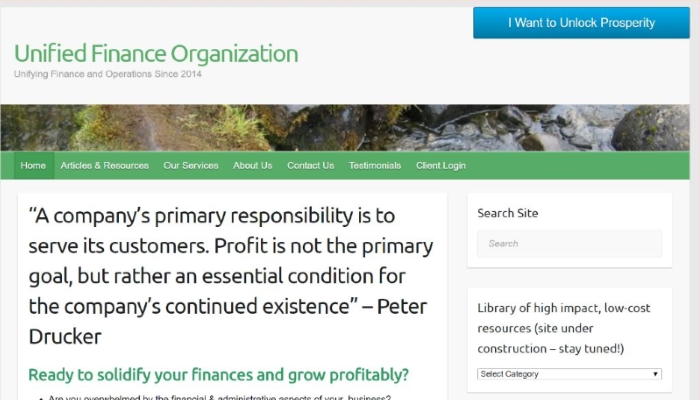
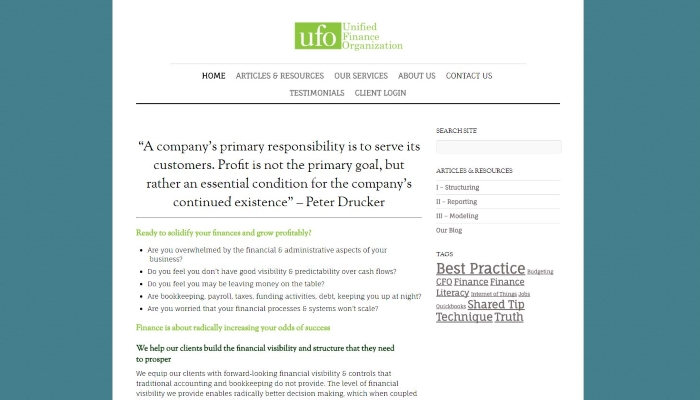
updated name, updated portfolio project

diff --git a/about.html b/about.html
@@ -109,7 +109,7 @@
                 <div class="col-lg-12">
                     <hr>
                     <h2 class="intro-text text-center">Founder's Bio
-                        <strong>Christina McMillan</strong>
+                        <strong>Christina Harder</strong>
                     </h2>
                     <hr>
                 </div>
@@ -122,15 +122,15 @@
                     <p>
                         Happily, my focus shifted in recent years to more programming and less bookkeeping. My passion for solving problems while being creative is a great fit for designing and programming websites. I get to play all day doing something I love and earn a living.
                         How many people can say that?</p>
-                    <p>I live in SW Austin with my fiance, two daughters, and two stepdaughters. When not working, I enjoy reading, cooking, spending time with my family, and I'm currently training for my first 5K. My personal life is filled with fun, love,
+                    <p>I live in SW Austin with my husband, two daughters, and two stepdaughters. When not working, I enjoy reading, cooking, spending time with my family, and I'm currently training for my first 5K. My personal life is filled with fun, love,
                         soccer practice and Girl Scouts, and I wouldn't have it any other way.</p>
 
-                    <h3 class="cursive_font">Christina McMillan <small class="regular_font">Founder</small></h3>
+                    <h3 class="cursive_font">Christina Harder <small class="regular_font">Founder</small></h3>
 
                 </div>
 
                 <div class="col-sm-4">
-                    <img class="img-responsive" src="img/christina_1_small.jpg" alt="Christina McMillan profile pic" title="Christina McMillan is awesome">
+                    <img class="img-responsive" src="img/christina_1_small.jpg" alt="Christina Harder profile pic" title="Christina Harder is awesome">
 
                 </div>
                 <div class="clearfix"></div>

diff --git a/portfolio.html b/portfolio.html
@@ -164,7 +164,7 @@
                     <a href="http://www.unified-finance.org" target="_blank"><img class="img-responsive img-border portfolio-img-small" src="img/portfolio/ufo.jpg" alt="Unified Finance Organization website" title="Unified Finance Organization"></a>
                     <h2>Unified Finance Organization
                     </h2>
-                    <p>Multi-page site built on WordPress in 2014. As of Nov 2016, it is in process of being redesigned and updated.</p>
+                    <p>Multi-page site built on WordPress in 2014. Redesigned in March 2017 for a more modern updated look.</p>
                     <a href="http://www.unified-finance.org" target="_blank" class="btn btn-default btn-lg">Visit Site</a>
                     <hr>
                 </div>
